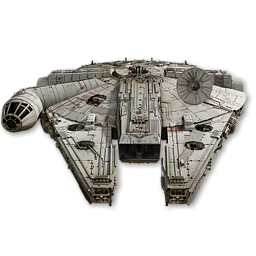
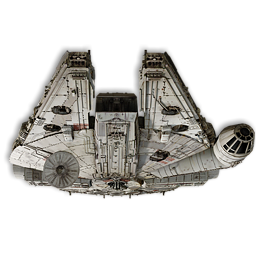
Canvas now fixed width. Next steps for MVP. Random enemies, design splash screen, design gameoverscreen, design gamescreen. Next steps for backlog: slow bigEnemies, 1 fixed enemy shooting from screen top

diff --git a/src/enemies.js b/src/enemies.js
@@ -3,20 +3,32 @@
 function Enemy (canvas, y , speed) {
 	this.canvas = canvas;
 	this.ctx =canvas.getContext('2d');
-	this.size = 100;
+	this.size = 75;
 	this.x = y;
 	this.y =0;
 	this.speed = speed;
 	this.enemy1;
-
+	this.enemy2;
+	this.enemy3;
 }
+
 
 Enemy.prototype.draw = function () {
 	// this.ctx.fillstyle = 'blue';
 	// this.ctx.fillRect(this.x, this.y, this.size, this.size);
 	this.enemy1 = new Image();   // Create new <img> element
-	this.enemy1.src = 'images/Tie Advanced.png'; // Set source path
-	this.ctx.drawImage(this.enemy1, this.x, this.y, this.size, this.size);
+	this.enemy1.src = '/images/Imperial Shuttle - 01.png'; // Set source path
+
+	this.enemy2 = new Image();   // Create new <img> element
+	this.enemy2.src = '/images/Tie Fighter - 02.png'; // Set source path
+
+	this.enemy3 = new Image();   // Create new <img> element
+	this.enemy3.src = '/images/Tie Bomber.png'; // Set source path
+	
+	// this.enemiesArray = [this.enemy1, this.enemy2, this.enemy3];
+	// this.randomEnemy = this.enemiesArray[Math.floor(Math.random()*this.enemiesArray.length)];
+
+	this.ctx.drawImage(this.enemy2, this.x, this.y, this.size, this.size);
 };
 
 
@@ -24,12 +36,49 @@ Enemy.prototype.updatePosition = function () {
 	this.y = this.y + this.speed;
 };
 
-
 Enemy.prototype.isInsideScreen = function () {
 	// if y plus half of its size is smaller than 0 return
-	//
 	// whats going on here?????
-	//HELP!
-	//
 	return this.y + this.size / 2 > 0;
 };
+
+
+// function BigEnemy (canvas, y , speed) {
+// 	this.canvas = canvas;
+// 	this.ctx =canvas.getContext('2d');
+// 	this.size 110;
+// 	this.x = y;
+// 	this.y =0;
+// 	this.speed = speed;
+// 	this.bigEnemy1;
+// 	this.bigEnemy2;
+// 	this.bigEnemy3;
+// }
+
+
+
+// BigEnemy.prototype.draw = function () {
+// 	// this.ctx.fillstyle = 'blue';
+// 	// this.ctx.fillRect(this.x, this.y, this.size, this.size);
+// 	this.bigEnemy1 = new Image();   // Create new <img> element
+// 	this.bigEnemy1.src = '/images/Death Star - 1st.png'; // Set source path
+
+// 	this.bigEnemy2 = new Image();   // Create new <img> element
+// 	this.bigEnemy2.src = '/images/Tie Fighter - 02.png'; // Set source path
+
+// 	this.bigEnemy3 = new Image();   // Create new <img> element
+// 	this.bigEnemy3.src = '/images/Tie Bomber.png'; // Set source path
+	
+// 	this.bigEnemiesArray = [this.bigEnemy1, this.bigEnemy2, this.bigEnemy3];
+// 	this.randomBigEnemy = this.bigEnemiesArray[Math.floor(Math.random()*this.bigEnemiesArray.length)];
+
+// 	this.ctx.drawImage(this.bigEnemy1, this.x, this.y, this.size, this.size);
+// };
+
+
+
+// BigEnemy.prototype.updatePosition = function () {
+// 	this.y = this.y + this.speed;
+// };
+
+

diff --git a/css/styles.css b/css/styles.css
@@ -3,46 +3,32 @@
   html {
     box-sizing: border-box;
   }
-  *, *:before, *:after {
-    box-sizing: inherit;
+  /* *, *:before, *:after {
+    box-sizing: inherit; */
   }
   
   body {
-    margin: 0;
-    padding: 0;
+
   }
   
-  
-  /* ---- typography ---- */
-  
-  body {
-    color: #111;
-    font-family: Helvetica, Arial, sans-serif;
-    font-size: 16px;
-    line-height: 147%;
-  }
-  
-  p {
+   p {
     margin: 0;
   }
-  
     
-  /* ---- layout ---- */
-  
   html, body {
     height: 100%;
   }
   
   .game-container {
-    margin: 0 20px;
-    border: 55px green;
+    margin: 0 40px;
+    
   }
   
   @media (min-width: 768px) {
     .container {
       max-width: 728px;
       margin: 0 auto;
-      
+
     }
   }
   
@@ -50,7 +36,7 @@
   /* ---- components ---- */
   
   .game-container {
-    text-align: center;
+    text-align: left;
     display: flex;
     flex-direction: column;
     height: 100%;
@@ -59,15 +45,15 @@
   .game-container header {
     height: 50px;
     display: flex;
-    align-items: center;
+    align-items: flex-start;
   }
   
   .game-container .lives {
-    flex: 1;
+    /* flex: 1; */
   }
   
   .game-container .score {
-    flex: 1;
+    /* flex: 1; */
   }
   
   .game-container .label {
@@ -83,6 +69,7 @@
     flex: 1;
  }
 
-  canvas {
-    border: 10px red;
+  .canvas-container {
+    border: 40px red;
+    max-width: 800px;
  }

diff --git a/src/player.js b/src/player.js
@@ -4,11 +4,11 @@ function Player(canvas, lives) {
 	this.canvas = canvas;
 	this.ctx = this.canvas.getContext('2d');
 	this.lives = lives;
-	this.size = 100;
+	this.size = 90;
 	this.x = canvas.width / 2;
-	this.y = canvas.height - 100;
+	this.y = canvas.height - 90;
 	this.direction = 0;
-	this.speed = 8;
+	this.speed = 6;
 	this.canShootBullet = true;
 	this.imgShip1;
 }
@@ -58,7 +58,7 @@ Player.prototype.handleScreenCollision = function() {
 	//Should I write here this.x or this.y????
 	this.x = this.x + this.direction * this.speed;
 	var screenLeft = 0;
-	var screenRight = this.canvas.width - 100;
+	var screenRight = this.canvas.width - 90;
 	
 	if (this.x < screenLeft) this.direction = 0;
 	else if (this.x > screenRight) this.direction = 0;
@@ -75,6 +75,6 @@ Player.prototype.draw = function () {
 	// this.ctx.fillStyle = 'red';
 	// this.ctx.fillRect(this.x, this.y, this.size, this.size);
 	this.imgShip1 = new Image();   // Create new <img> element
-	this.imgShip1.src = 'images/Tie Fighter - 03.png'; // Set source path
+	this.imgShip1.src = 'images/Millenium Falcon - 02.png'; // Set source path
 	this.ctx.drawImage(this.imgShip1, this.x, this.y, this.size, this.size);
 };

diff --git a/src/game.js b/src/game.js
@@ -71,20 +71,17 @@ Game.prototype.startLoop = function() {
 		var loop = function() {
 		// console.log('in loop');
 
-		
-    // 0.Player already created - via `game.start()`
 		// 1. Create new enemies randomly
 		if (Math.random() > 0.98) {
 			var randomX = this.canvas.width * Math.random();
 			var newEnemy = new Enemy(this.canvas, randomX, 5);
 			this.enemies.push(newEnemy);
 		}
-			// HELP
+			// HELP post MVP
 			//how to generate enemies based on regular interval time
 			//how to randomly locate the enemies in the delimited waiting
 			// zone in the top of the screen
 
-	
 		//Checks if enemies hit the player
 		this.checkCollisions();
 
